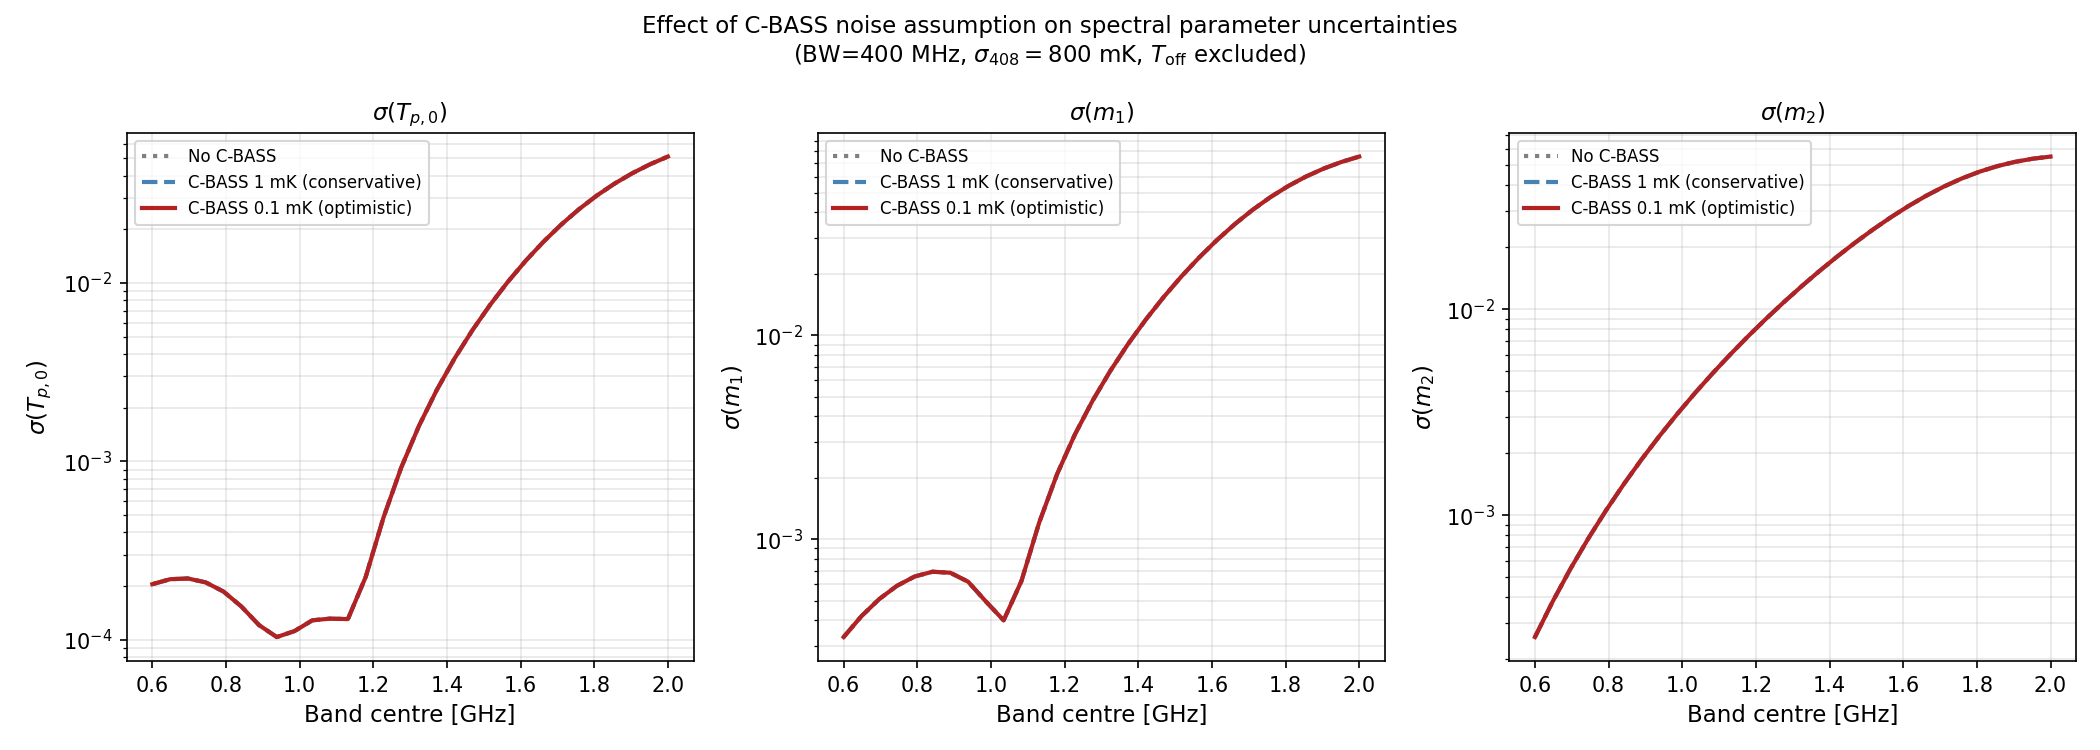
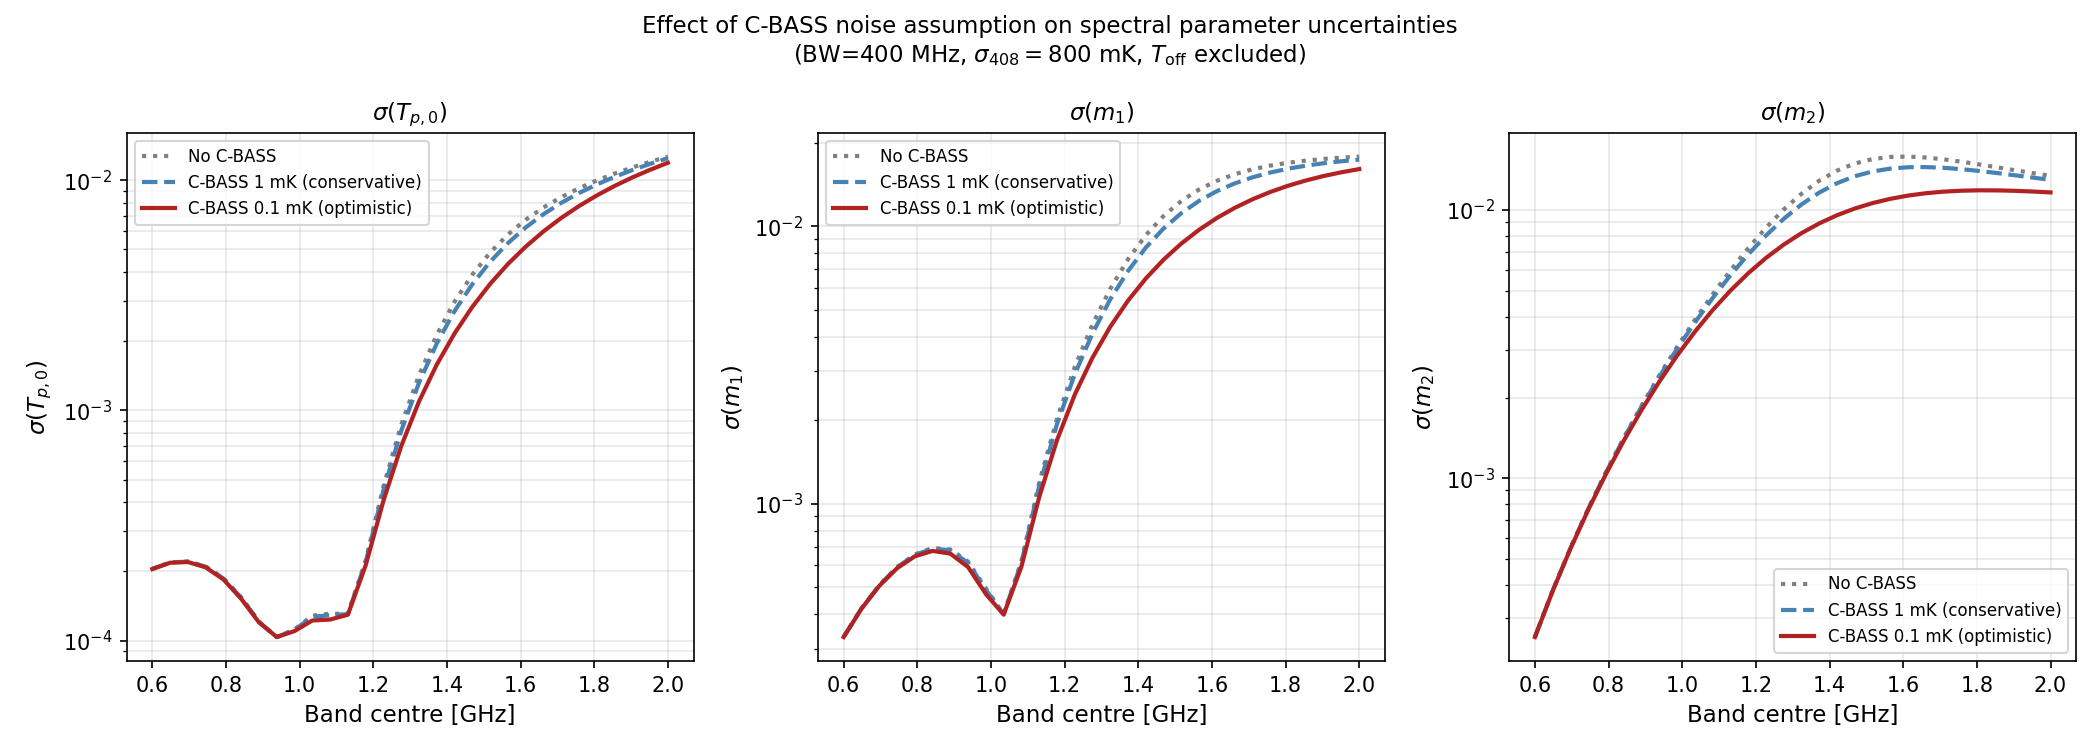
New editing and plots

diff --git a/CobraX_foregrounds/cobrax_fisher.py b/CobraX_foregrounds/cobrax_fisher.py
@@ -59,10 +59,12 @@ SIGMA_LBASS              = 0.1      # [K]  — 100 mK (Zerafa et al. 2025)
 # ---- Prior widths on calibration parameters (Phil's specification) ----
 # F_prior is diagonal: entry = 1 / sigma_prior^2
 # For parameters with no prior, entry = 0.
-SIGMA_PRIOR_G408        = 0.2     # 20% prior on Haslam gain
-SIGMA_PRIOR_GCBASS      = 0.01    # 1% prior on C-BASS gain (good mult. cal.)
-SIGMA_PRIOR_TOFF_CBASS  = 1.0     # [K] prior on C-BASS offset (pending Phil)
-# Set to np.inf (=> 0 in F_prior) to remove a prior entirely.
+# Phil's instruction: try 10x tighter than previous values.
+# Previous: g_408=0.2,  g_CBASS=0.01,  T_off_CBASS=5 mK
+# Current:  g_408=0.02, g_CBASS=0.001, T_off_CBASS=0.5 mK
+SIGMA_PRIOR_G408        = 0.02     # was 0.2  — 2%   prior on Haslam gain
+SIGMA_PRIOR_GCBASS      = 0.001    # was 0.01 — 0.1% prior on C-BASS gain
+SIGMA_PRIOR_TOFF_CBASS  = 5e-4     # was 5e-3 — 0.5 mK prior on C-BASS offset
 
 # ---- Full parameter system (6 parameters) ----
 # Ordering: [g_408, g_CBASS, T_off_CBASS, T_p0, m1, m2]
